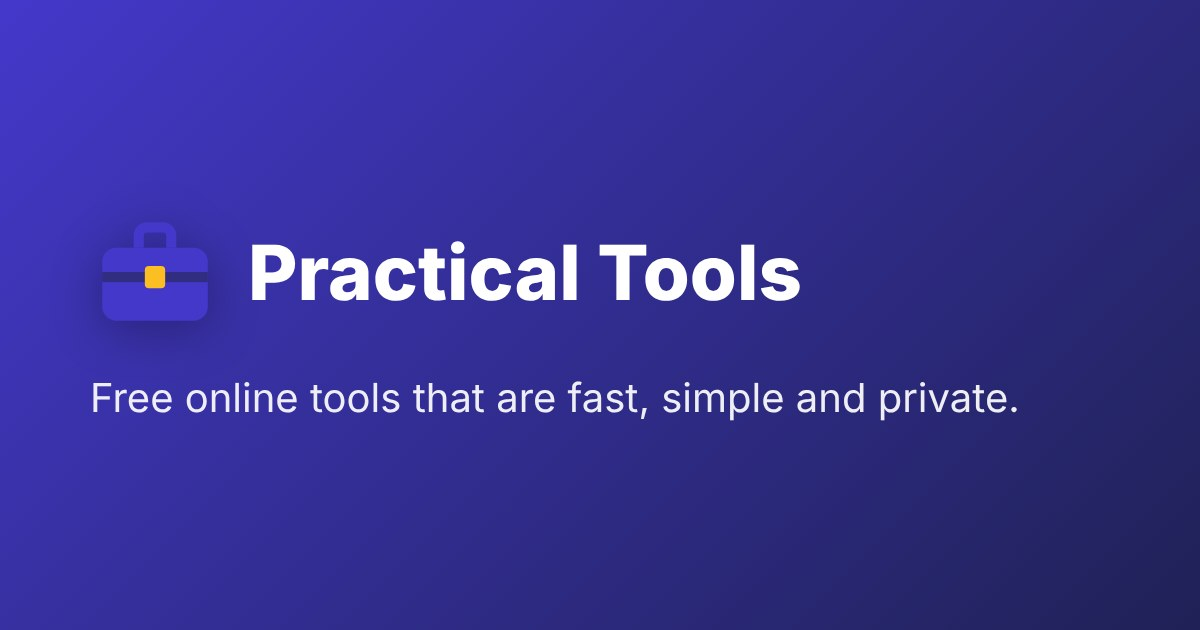
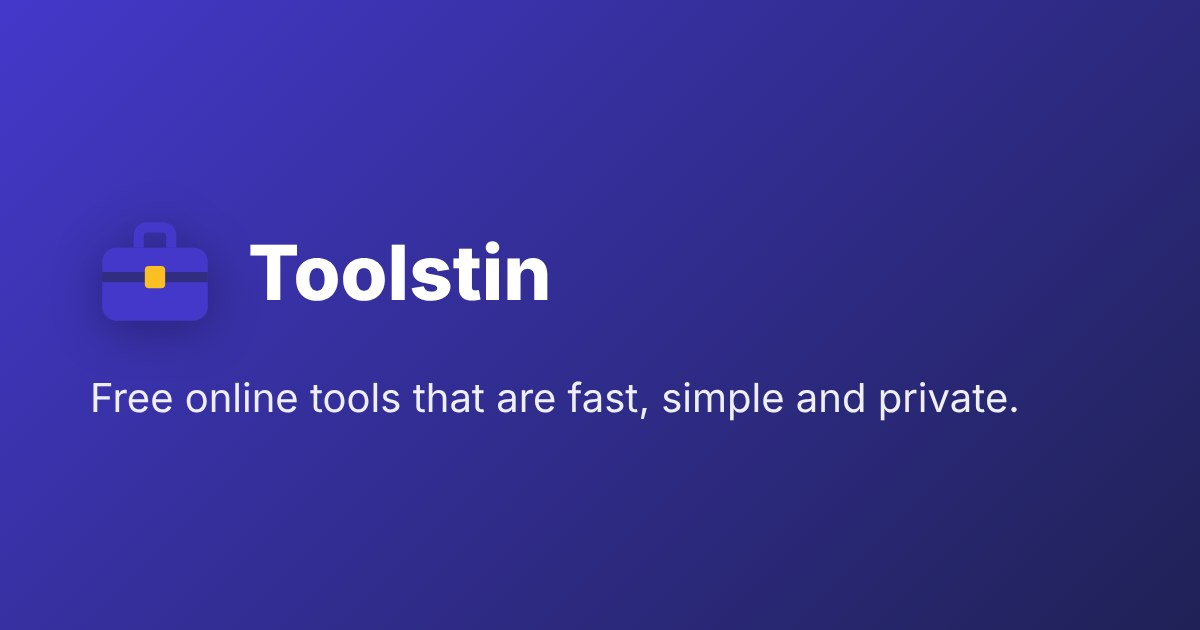
Set brand name Toolstin and domain toolstin.com
All sites now use https://toolstin.com (hub) and its subdomains
(keeplocal., wheel., typing.). The hub's social-media preview image
shows the new name.

Claude-Session: https://claude.ai/code/session_01WRPA1vyeXfEzv7AmDDvBzv

Changed region(s): [[0.185, 0.3619, 0.6783, 0.4825]]

diff --git a/packages/shared/src/network.ts b/packages/shared/src/network.ts
@@ -15,10 +15,10 @@
 
 export const network = {
   /** Name of the whole network (hub page, footers). */
-  name: 'Practical Tools',
+  name: 'Toolstin',
 
   /** Your central domain WITHOUT "https://" (e.g. 'practical-tools.com'). Each site becomes a subdomain. */
-  domain: 'example.com',
+  domain: 'toolstin.com',
 
   /** Who runs the sites – required by law in many countries (legal notice + privacy policy). */
   owner: {
